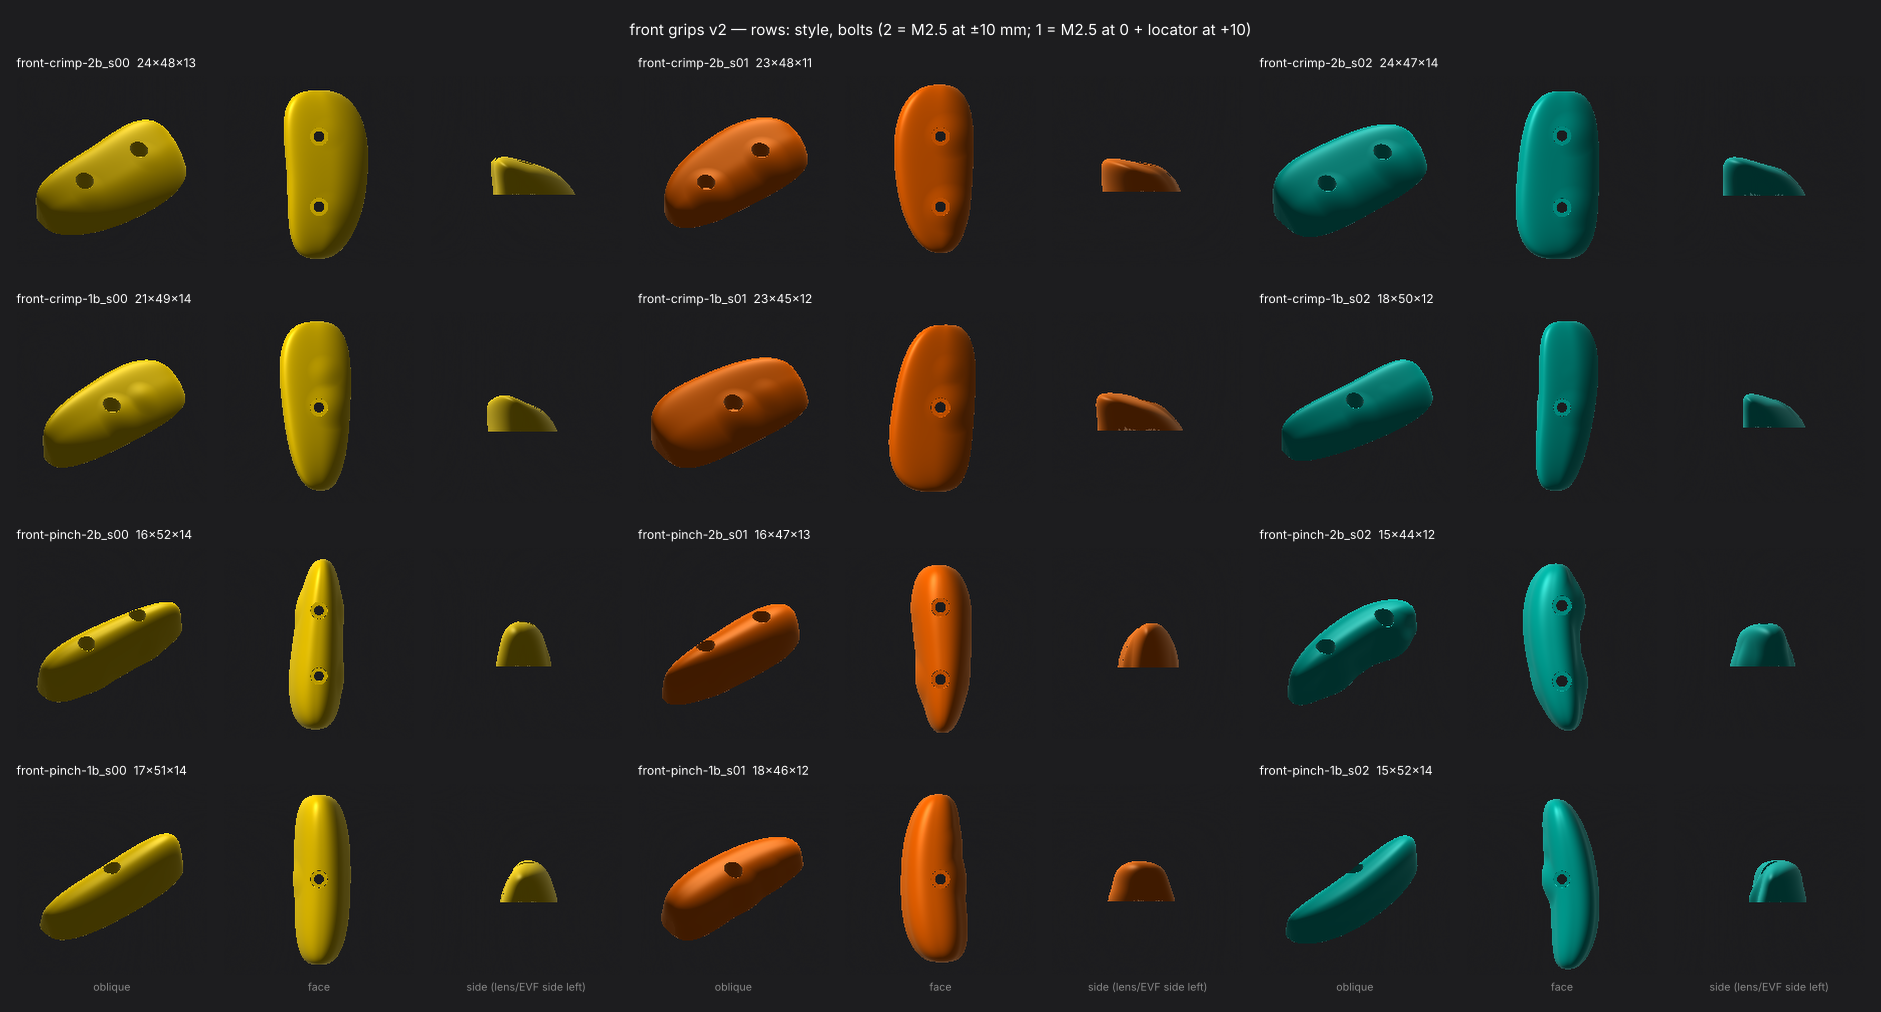
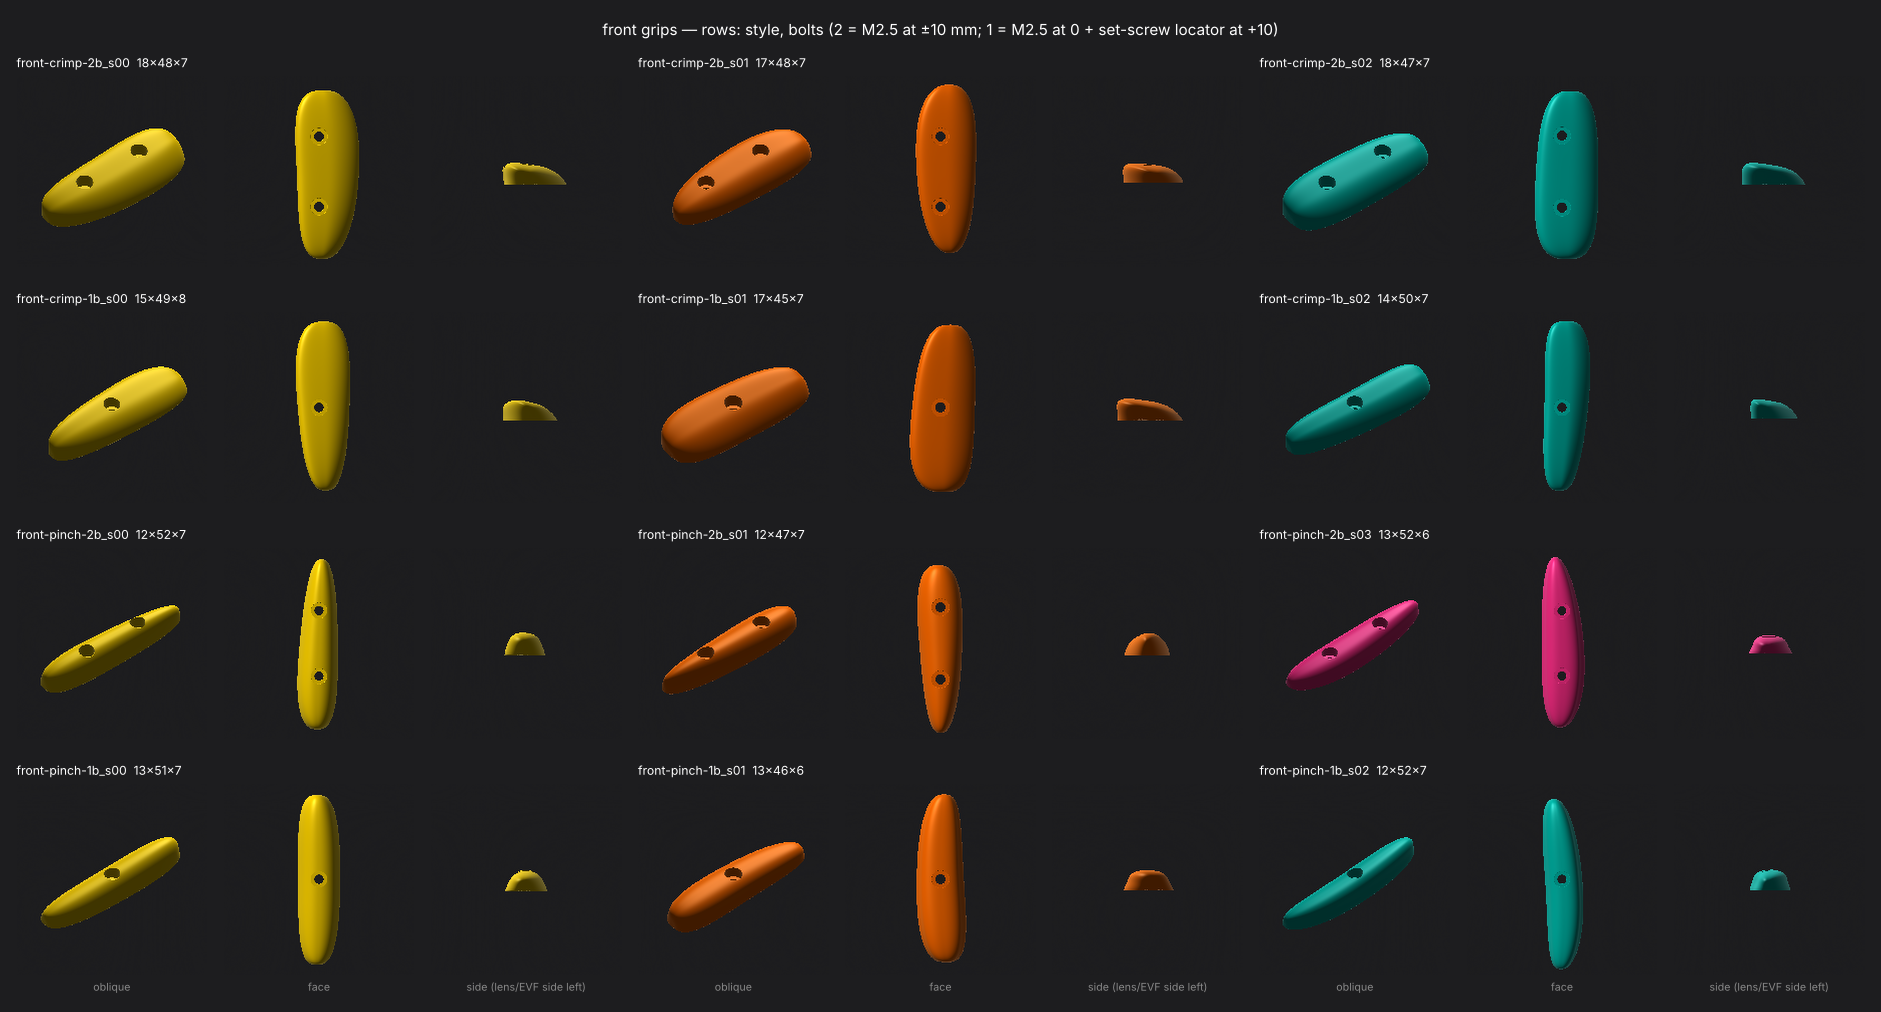
Grips: resize for slimmer body; rear to M2 on 5 mm pitch; tighter counterbores
Front half as thick and 0.75 as wide (M2.5, cb 4.9, seat 1.8). Rear ~0.6 size,
~4.5 mm deep, M2 at -5/0/+5 (cb 4.1, seat 1.2). Bosses removed; spine centred
(crimps: thick ridge) over the hole line; flatter crimp tops.

Claude-Session: https://claude.ai/code/session_01QEH3AqRJCR4ZQuJ8pq1ace

diff --git a/hardware/grips/gripgen.py b/hardware/grips/gripgen.py
@@ -9,11 +9,12 @@ Nothing random is added on the surface, so curvature stays continuous.
 Signed distance field (SDF): negative inside, positive outside. Fastener bosses are blended in,
 the mating face is cut flat at z = 0, holes are cut last and exactly. Marching cubes -> STL (mm).
 
-Standard hole pattern on the camera body (same for every grip, front and rear):
-  three M2.5 tapped holes in a vertical line at y = -10, 0, +10 mm (10 mm pitch).
-  2-bolt grips: M2.5 SHCS at y = +/-10 (20 mm spacing).
-  1-bolt grips: M2.5 SHCS at y = 0, located against rotation by an M2.5 x 4 set screw
-                left standing 2.5 mm proud in the y = +10 hole (grip has a blind pocket over it).
+Standard hole patterns on the camera body (three tapped holes in a vertical line):
+  front: M2.5 at y = -10, 0, +10 mm (10 mm pitch)
+  rear:  M2   at y = -5, 0, +5 mm  (5 mm pitch)
+  2-bolt grips: SHCS in the outer two holes.
+  1-bolt grips: SHCS in the centre hole, located against rotation by a set screw standing
+                proud in the upper hole (M2.5 x 4 / M2 x 3); the grip has a blind pocket over it.
 
 Grip coordinates (mm), looking at the face the grip bolts to:
   x across the camera, -x = lens side (front) / EVF side (rear); y up; z out of the body.
@@ -30,42 +31,52 @@ import numpy as np
 import trimesh
 from skimage.measure import marching_cubes
 
-# --- fasteners (ISO 4762 M2.5 SHCS; MJF holes slightly oversize) -------------------------------------
-PITCH = 10.0             # standard hole pitch on the body
-M25_CLEAR = 3.0          # clearance hole dia (2.9 nominal + MJF allowance)
-M25_CB = 5.2             # counterbore dia (head 4.5)
-M25_HEAD = 2.5           # head height
-LOC_HOLE = 3.0           # blind pocket over the locating set screw (M2.5, 2.5 mm proud)
-LOC_DEPTH = 3.2
-WALL = 2.5               # minimum material around a counterbore
+# --- fasteners (ISO 4762 SHCS). MJF holes print ~0.1 mm small, so these are close-fit + a little ----------
+@dataclass
+class Screw:
+    name: str
+    clear: float      # clearance hole dia
+    cb: float         # counterbore dia
+    head: float       # head height
+    pitch: float      # standard hole pitch on the body
+    loc_hole: float   # blind pocket over the locating set screw
+    loc_depth: float  # set screw stands (loc_depth - 0.3) mm proud of the body
+    wall: float       # minimum material around the counterbore
+
+
+# front: M2.5 (head 4.5 x 2.5); body holes at y = -10, 0, +10
+M25 = Screw("M2.5", clear=2.8, cb=4.9, head=2.5, pitch=10.0, loc_hole=2.9, loc_depth=2.8, wall=1.5)
+# rear: M2 (head 3.8 x 2.0); body holes at y = -5, 0, +5
+M2 = Screw("M2", clear=2.4, cb=4.1, head=2.0, pitch=5.0, loc_hole=2.4, loc_depth=2.3, wall=1.2)
 RECESS = 0.3             # head sits at least this far below the surface
 
 
-def pattern(bolts):
+def pattern(bolts, sc):
     """(screws, locators) as (x, y) in grip coordinates."""
     if bolts == 2:
-        return [(0.0, -PITCH), (0.0, PITCH)], []
-    return [(0.0, 0.0)], [(0.0, PITCH)]
+        return [(0.0, -sc.pitch), (0.0, sc.pitch)], []
+    return [(0.0, 0.0)], [(0.0, sc.pitch)]
 
 
 @dataclass
 class Style:
     w: tuple        # footprint width range (x), mm
     h: tuple        # footprint height range (y), mm
-    p: tuple        # protrusion range (z), mm
+    p: tuple        # protrusion parameter range (z), mm; crimps finish ~80 % of this
     seat: float     # material under the screw head
     profile: str    # crimp | pinch | sloper
+    screw: Screw
 
 
 STYLES = {
     # fingers curl over a rounded positive edge on the lens side; the face slopes back toward the body end
-    "front-crimp": Style(w=(18, 24), h=(44, 54), p=(11, 15), seat=3.0, profile="crimp"),
-    # a narrow, taller fin with two pinchable flanks
-    "front-pinch": Style(w=(14, 18), h=(44, 54), p=(12, 15), seat=3.0, profile="pinch"),
+    "front-crimp": Style(w=(13.5, 18), h=(44, 54), p=(6.3, 8), seat=1.8, profile="crimp", screw=M25),
+    # a narrow fin with two pinchable flanks
+    "front-pinch": Style(w=(10.5, 13.5), h=(44, 54), p=(6, 7.5), seat=1.8, profile="pinch", screw=M25),
     # thumb edge: a small crimp the thumb pad hooks over
-    "rear-crimp": Style(w=(16, 21), h=(31, 35), p=(8.3, 10), seat=2.5, profile="crimp"),
-    # thumb sloper: a smooth dome with a shallow dish for the thumb pad
-    "rear-sloper": Style(w=(18, 23), h=(31, 35), p=(7, 9), seat=2.5, profile="sloper"),
+    "rear-crimp": Style(w=(10, 13), h=(18, 22), p=(5.0, 6.0), seat=1.2, profile="crimp", screw=M2),
+    # thumb sloper: a low dome with a shallow dish for the thumb pad
+    "rear-sloper": Style(w=(11, 14), h=(18, 22), p=(4.4, 5.3), seat=1.2, profile="sloper", screw=M2),
 }
 
 COLOURS = ["#ffd400", "#ff6a00", "#00b8a9", "#ff2e88", "#7cdf00", "#2f7bff", "#9d4dff", "#ff3b30"]
@@ -104,19 +115,20 @@ def make_params(style, bolts, seed):
     u = lambda lo, hi: float(rng.uniform(lo, hi))
     prm = dict(style=style, bolts=bolts, seed=seed, profile=S.profile, colour=COLOURS[seed % len(COLOURS)],
                W=u(*S.w), L=u(*S.h), P=u(*S.p),
-               bow=u(-0.07, 0.07), sbend=u(-0.04, 0.04),       # spine curvature, fraction of length
+               bow=u(-0.04, 0.04), sbend=u(-0.025, 0.025),       # spine curvature, fraction of length
                yoff=u(-0.04, 0.04),                            # spine centre offset along y, fraction
                env_n=u(2.2, 3.2),                              # end shape: 2 = elliptical, higher = squarer
                wtaper=u(-0.25, 0.25), htaper=u(-0.2, 0.2),    # one end wider / taller (bean shape)
                n=u(2.2, 2.8), cb=u(0.3, 0.5))                  # section squareness, how deep the dome sinks
     if S.profile == "crimp":
         # edge side (-x) squarer than the back, top leans over the edge, face slopes down to the back
-        prm.update(tilt=u(0.3, 0.5), n_edge=u(3.4, 4.6), lean=u(0.12, 0.24), lip=None)
+        prm.update(tilt=u(0.15, 0.3), n_edge=u(3.4, 4.6), lean=u(0.12, 0.24), lip=None,
+                   hole_a=u(-0.3, -0.18))                     # hole line sits this far toward the edge
     elif S.profile == "pinch":
         prm.update(tilt=u(-0.08, 0.08), lip=None, waist=u(0.0, 0.12))
     else:
         prm.update(tilt=u(0.05, 0.18), lip=None,
-                   dish=dict(x=u(0.0, 0.12), y=u(-0.06, 0.06), r=u(10, 13), depth=u(1.2, 2.0)))
+                   dish=dict(x=u(0.0, 0.12), y=u(-0.06, 0.06), r=u(0.5, 0.65) * prm["W"], depth=u(0.08, 0.14) * prm["P"]))
     return prm
 
 
@@ -126,7 +138,13 @@ def shape_sdf(P, prm, with_holes=True):
     x, y, z = P[..., 0], P[..., 1], P[..., 2]
     yc = y - prm["yoff"] * L
     uu = 2 * yc / L                                              # -1 .. 1 along the spine
-    sx = L * (prm["bow"] * (1 - uu ** 2) + prm["sbend"] * np.sin(np.pi * uu / 2))
+    spine = lambda q: L * (prm["bow"] * (1 - q ** 2) + prm["sbend"] * np.sin(np.pi * q / 2))
+    sc = S.screw
+    hy = np.array([p[1] for p in sum(pattern(prm["bolts"], sc), [])])
+    x_fix = spine(2 * (hy - prm["yoff"] * L) / L).mean()       # keep the spine centred on the hole line
+    if prm["profile"] == "crimp":
+        x_fix += prm["hole_a"] * W / 2                             # ...or, for crimps, the thick ridge on it
+    sx = spine(uu) - x_fix
     slope = (prm["bow"] * (-2 * uu) + prm["sbend"] * np.pi / 2 * np.cos(np.pi * uu / 2)) * 2
     s = (x - sx) / np.sqrt(1 + slope ** 2)
     env = np.clip(1 - np.abs(uu) ** prm["env_n"], 1e-4, 1) ** (1 / prm["env_n"])
@@ -136,7 +154,7 @@ def shape_sdf(P, prm, with_holes=True):
     # cross-section in normalised (a, b): dome sinks cb below the face, top at b = 1
     cb, n = prm["cb"], prm["n"]
     if prm["profile"] == "crimp":
-        a = a + prm["lean"] * np.clip(b, 0, None) ** 2             # top overhangs the edge side: positive hold
+        a = a + prm["lean"] * np.clip(b, 0, 1.5) ** 2             # top overhangs the edge side: positive hold
         n = n + (prm["n_edge"] - n) / (1 + np.exp(np.clip(a / 0.2, -50, 50)))       # squarer toward the edge, smooth blend
         b = b * (1 + prm["tilt"])                                  # keep the peak at the protrusion P
     b2 = b + prm["tilt"] * a
@@ -149,47 +167,45 @@ def shape_sdf(P, prm, with_holes=True):
         D = prm["dish"]
         c = [D["x"] * W, D["y"] * L, Pz + D["r"] - D["depth"]]
         d = smax(d, -ellipsoid(P, c, [D["r"], D["r"] * 1.2, D["r"]]), 2.0)
-    screws, locs = pattern(prm["bolts"])
-    for (hx, hy) in screws:
-        rb = M25_CB / 2 + WALL + 0.6
-        d = smin(d, ellipsoid(P, [hx, hy, 0], [rb, rb, S.seat + M25_HEAD + RECESS + 0.4]), 4.0)
-    for (hx, hy) in locs:
-        d = smin(d, ellipsoid(P, [hx, hy, 0], [3.5, 3.5, LOC_DEPTH + 1.8]), 4.0)
+    screws, locs = pattern(prm["bolts"], sc)
+    # no bosses: the form itself must carry the fasteners (check() rejects seeds that are too thin),
+    # which keeps the surface one continuous shape
     d = np.maximum(d, -z)                                         # flat mating face
     if with_holes:
         for (hx, hy) in screws:
-            d = np.maximum(d, -cylinder_z(P, hx, hy, M25_CLEAR / 2, -1, 99))
-            d = np.maximum(d, -cylinder_z(P, hx, hy, M25_CB / 2, S.seat, 99))
+            d = np.maximum(d, -cylinder_z(P, hx, hy, sc.clear / 2, -1, 99))
+            d = np.maximum(d, -cylinder_z(P, hx, hy, sc.cb / 2, S.seat, 99))
         for (hx, hy) in locs:
-            d = np.maximum(d, -cylinder_z(P, hx, hy, LOC_HOLE / 2, -1, LOC_DEPTH))
+            d = np.maximum(d, -cylinder_z(P, hx, hy, sc.loc_hole / 2, -1, sc.loc_depth))
     return d
 
 
 # --- checks ------------------------------------------------------------------------------------------------
 def check(prm):
     S = STYLES[prm["style"]]
-    screws, locs = pattern(prm["bolts"])
+    sc = S.screw
+    screws, locs = pattern(prm["bolts"], sc)
     probs = []
     ang = np.linspace(0, 2 * np.pi, 48, endpoint=False)
     for i, (x, y) in enumerate(screws):
-        r = M25_CB / 2 + WALL
+        r = sc.cb / 2 + sc.wall
         for zz in np.linspace(0.3, S.seat + 0.5, 4):
             ring = np.stack([x + r * np.cos(ang), y + r * np.sin(ang), np.full_like(ang, zz)], -1)
             if (shape_sdf(ring, prm, with_holes=False) > 0).any():
-                probs.append(f"screw {i + 1}: wall < {WALL} mm")
+                probs.append(f"screw {i + 1}: wall < {sc.wall} mm")
                 break
         col_z = np.linspace(0, 30, 601)
         for t in np.linspace(0, 2 * np.pi, 12, endpoint=False):
-            col = np.stack([np.full_like(col_z, x + M25_CB / 2 * np.cos(t)),
-                            np.full_like(col_z, y + M25_CB / 2 * np.sin(t)), col_z], -1)
+            col = np.stack([np.full_like(col_z, x + sc.cb / 2 * np.cos(t)),
+                            np.full_like(col_z, y + sc.cb / 2 * np.sin(t)), col_z], -1)
             inside = shape_sdf(col, prm, with_holes=False) < 0
             top = col_z[inside].max() if inside.any() else 0
-            if top < S.seat + M25_HEAD + RECESS:
+            if top < S.seat + sc.head + RECESS:
                 probs.append(f"screw {i + 1}: head proud")
                 break
     for (x, y) in locs:
-        if shape_sdf(np.array([[x, y, LOC_DEPTH + 1.5]]), prm, with_holes=False)[0] > 0:
-            probs.append("locator: < 1.5 mm over the pocket")
+        if shape_sdf(np.array([[x, y, sc.loc_depth + 1.2]]), prm, with_holes=False)[0] > 0:
+            probs.append("locator: < 1.2 mm over the pocket")
     return probs
 
 

diff --git a/hardware/grips/sheet.py b/hardware/grips/sheet.py
@@ -76,7 +76,9 @@ if __name__ == "__main__":
                                  color="w", fontsize=8, loc="left")
                 if ri == len(rows) - 1:
                     ax.text(0.5, -0.03, name, color="#888", fontsize=7, ha="center", va="top", transform=ax.transAxes)
-    fig.suptitle(f"{a.side} grips v2 — rows: style, bolts (2 = M2.5 at ±10 mm; 1 = M2.5 at 0 + locator at +10)",
+    sc = g.STYLES[rows[0][0]].screw
+    fig.suptitle(f"{a.side} grips — rows: style, bolts (2 = {sc.name} at ±{sc.pitch:g} mm; "
+                 f"1 = {sc.name} at 0 + set-screw locator at +{sc.pitch:g})",
                  color="w", fontsize=10)
     fig.tight_layout()
     fig.savefig(a.out, dpi=110, facecolor=BG)

diff --git a/hardware/grips/README.md b/hardware/grips/README.md
@@ -6,25 +6,33 @@ Output: watertight STL in **millimetres** (set Unit Type = Millimeter when inser
 ![front](front_sheet.png)
 ![rear](rear_sheet.png)
 
-## Styles
+## Styles (sized for the slimmer body)
 
-| Style | Shape | Footprint W × H | Height |
+| Style | Shape | Finished size W × H × depth | Screw |
 | --- | --- | --- | --- |
-| `front-crimp` | Rounded square edge on the lens side, top leans over it, face slopes back | 18–24 × 44–54 mm | ~10–14 mm |
-| `front-pinch` | Narrow fin with two rounded flanks | 14–18 × 44–54 mm | 11–15 mm |
-| `rear-crimp` | Small thumb edge on the EVF side | 16–21 × 31–35 mm | ~7–8 mm |
-| `rear-sloper` | Smooth dome with a shallow thumb dish | 18–23 × 31–35 mm | 7–9 mm |
+| `front-crimp` | Rounded square edge on the lens side, top leans over it, flatter face behind | ~14–18 × 44–54 × 6 mm | M2.5 |
+| `front-pinch` | Narrow fin with two rounded flanks | ~12–14 × 44–54 × 6–7 mm | M2.5 |
+| `rear-crimp` | Small thumb edge on the EVF side | ~11–14 × 18–22 × 4.5 mm | M2 |
+| `rear-sloper` | Low dome with a shallow thumb dish | ~12–14 × 18–22 × 4.5 mm | M2 |
 
 Each comes as **2-bolt** or **1-bolt**.
 
-## Standard hole pattern (the same on every grip position)
+## Standard hole patterns (three tapped holes in a vertical line)
 
-Three M2.5 tapped holes in the body, in a vertical line at **y = −10, 0, +10 mm (10 mm pitch)**. Any grip fits any position.
+| | Front | Rear |
+| --- | --- | --- |
+| Body holes | M2.5 at y = −10, 0, +10 mm | M2 at y = −5, 0, +5 mm |
+| 2-bolt grip | SHCS at ±10 (20 mm spacing) | SHCS at ±5 (10 mm spacing) |
+| 1-bolt grip | SHCS at 0 + M2.5 × 4 set screw, 2.5 mm proud, at +10 | SHCS at 0 + M2 × 3 set screw, 2 mm proud, at +5 |
+| Clearance hole / counterbore | Ø2.8 / Ø4.9 (head Ø4.5) | Ø2.4 / Ø4.1 (head Ø3.8) |
+| Material under head (seat) | 1.8 mm | 1.2 mm |
+| Screw, ~4 mm thread engagement | M2.5 × 6 | M2 × 5 |
+| Locator pocket | Ø2.9 × 2.8 mm | Ø2.4 × 2.3 mm |
 
-- **2-bolt:** M2.5 SHCS at ±10 mm (20 mm spacing).
-- **1-bolt:** M2.5 SHCS in the centre hole. Against rotation, an **M2.5 × 4 set screw** stands 2.5 mm proud in the +10 hole and sits in a Ø3.0 × 3.2 mm pocket in the grip. No pressed dowel needed.
-- Grip holes: Ø3.0 clearance, Ø5.2 counterbore (MJF allowance).
-- Screws: front M2.5×8, rear M2.5×6 or ×8, assuming ~4 mm of thread in the body.
+The holes are close fits that allow for MJF printing ~0.1 mm small. Every grip is checked for:
+- head ≥ 0.3 mm below the surface;
+- side wall around the counterbore ≥ 1.5 mm (front) or 1.2 mm (rear);
+- ≥ 1.2 mm of material over the locator pocket.
 
 ## Use
 
@@ -47,11 +55,9 @@ Each grip is one continuous swept form, described as a signed distance field (ne
    - **crimp:** squarer on the edge side, softer on the back, sheared so the top overhangs the edge;
    - **pinch:** a tall rounded section with a slight waist;
    - **sloper:** a low dome with a dish cut in.
-4. **Fasteners:** soft bosses blend in under each fastener. The mating face is cut flat at z = 0, and the holes are cut last, exactly.
+4. **Fasteners:** no bosses (they showed as bumps on thin grips). Each grip is shifted so its thickest part sits over the hole line, and seeds too thin to carry the screws are rejected. The mating face is cut flat at z = 0, and the holes are cut last, exactly.
 5. **Checks on every seed:**
-   - ≥ 2.5 mm wall around each counterbore;
-   - the screw head ≥ 0.3 mm below the surface;
-   - ≥ 1.5 mm of material over the locator pocket.
+   - see the limits under the hole patterns above.
 6. **Mesh:** marching cubes on a 0.25 mm grid, keeping the largest piece.
 
 Nothing random is added to the surface, so curvature stays continuous. `gripgen_v1.py` is the earlier lumpy, blob-based generator.
